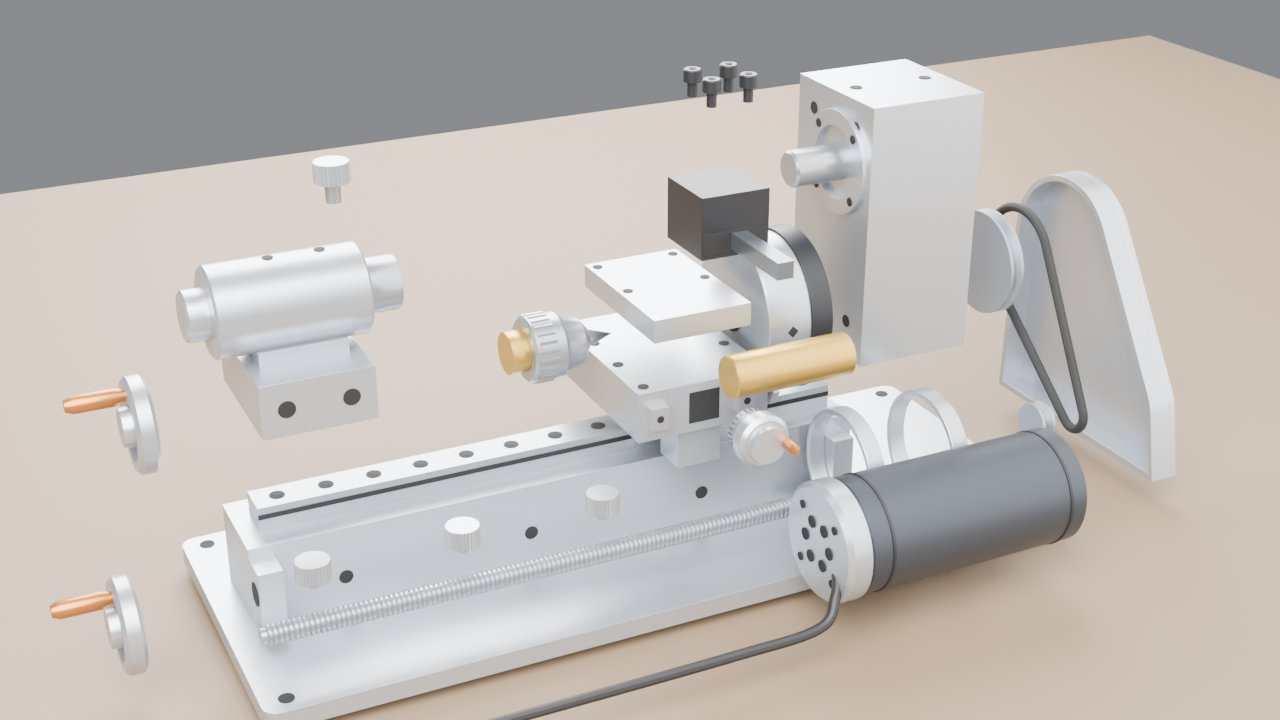
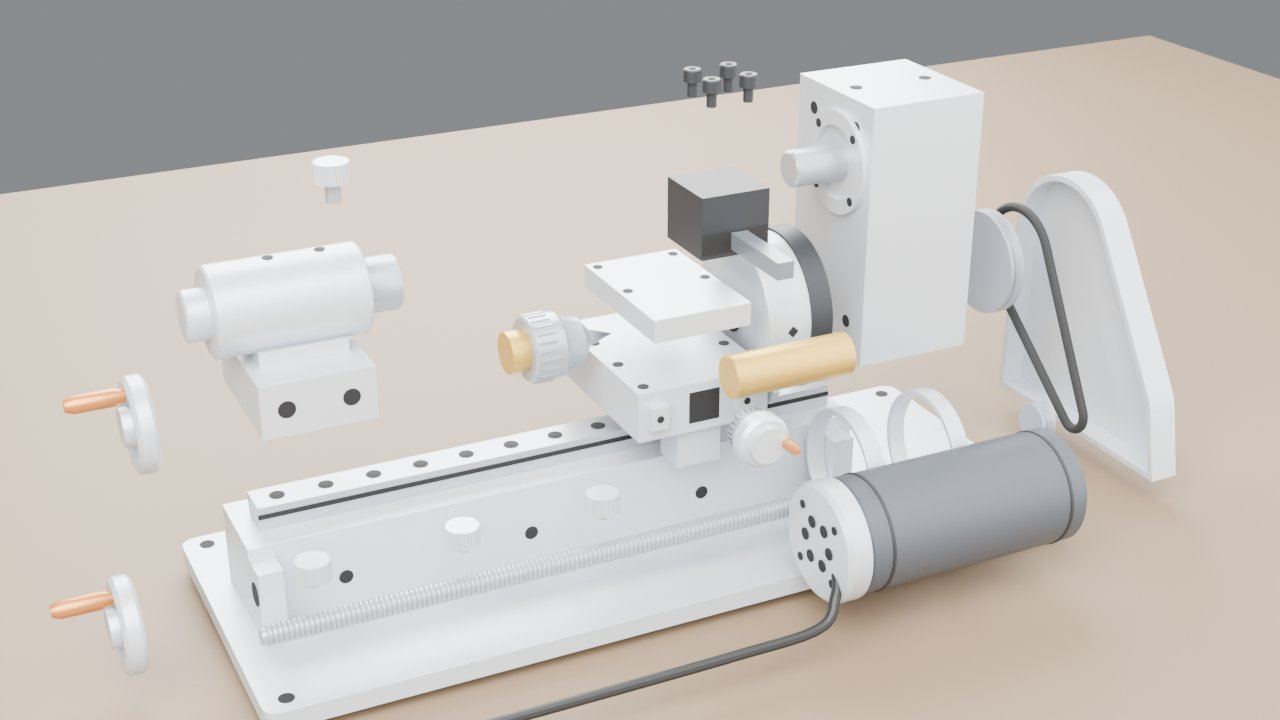
迷你车床爆炸图: 降低金属度（虚幻工作室没有反射探针，铝件发黑）

diff --git a/迷你车床爆炸图/build_lathe.py b/迷你车床爆炸图/build_lathe.py
@@ -386,20 +386,21 @@ def set_engine(kind):
 
 
 def make_materials():
-    # 金属度封顶 0.8、粗糙度至少 0.3：虚幻工作室里没有反射探针，金属度 1 的镜面铝会反射成黑块
+    # 金属度都压在 0.55 以下：虚幻工作室里没有反射探针，金属反射的是黑的环境，金属度 0.8 的铝在虚幻里已经发黑了（实测）。
+    # 所以铝用"亮灰 + 低金属度"来近似，Blender 里看起来稍微偏塑料一点
     return dict(
-        alu=principled('M_Alu', '#b8bdc4', .8, .34),
-        alu_dark=principled('M_Alu_Anodized', '#8e949c', .7, .4),
-        steel=principled('M_Steel', '#a3a8ae', .8, .3),
-        brass=principled('M_Brass', '#c9a24a', .8, .32),
-        copper=principled('M_Copper_Handle', '#b8743a', .8, .34),
-        black=principled('M_Black_Oxide', '#1e1f22', .3, .45),
+        alu=principled('M_Alu', '#c3c8ce', .35, .38),
+        alu_dark=principled('M_Alu_Anodized', '#8e949c', .35, .42),
+        steel=principled('M_Steel', '#a9aeb4', .5, .32),
+        brass=principled('M_Brass', '#d0a84e', .55, .35),
+        copper=principled('M_Copper_Handle', '#c07a3e', .55, .36),
+        black=principled('M_Black_Oxide', '#25272b', .2, .5),
         hole=principled('M_Hole', '#0b0b0c', 0, .8),
         rubber=principled('M_Rubber', '#141416', 0, .85),
-        motor=principled('M_Motor_Can', '#3b3f45', .6, .42),
+        motor=principled('M_Motor_Can', '#4a4f56', .3, .45),
         belt=principled('M_Belt', '#1b1b1b', 0, .8),
         cable=principled('M_Cable', '#121212', 0, .55),
-        tool=principled('M_HSS_Tool', '#6f757c', .8, .3),
+        tool=principled('M_HSS_Tool', '#7a8088', .5, .32),
     )
 
 

diff --git a/迷你车床爆炸图/README.md b/迷你车床爆炸图/README.md
@@ -70,5 +70,5 @@
 
 - 坐标：+X 指向主轴箱（右），-X 指向尾座（左），-Y 是操作者站的正面，+Z 向上；Z = 0 是脚垫底面，主轴轴线在 (Y 0, Z 100)。所有零件直接按装配位置建模，物体原点都在世界原点。
 - 爆炸公式和电机、无人机一样：每个零件有几段位移，每段有一个出场时刻 s，在总进度 T 的 `[0.6s, 0.6s + 0.4]` 区间里缓动走完；装回时 T 倒着走，顺序自然反过来。
-- 材质金属度封顶 0.8、粗糙度至少 0.3：虚幻工作室里没有反射探针，金属度 1 的镜面铝会反射成黑块。
+- 材质金属度都压在 0.55 以下：虚幻工作室里没有反射探针，金属反射的是黑的环境，金属度 0.8 的铝在虚幻里就已经发黑了（实测）。所以铝用"亮灰 + 低金属度"近似，Blender 里看起来稍微偏塑料一点。
 - 简化了的地方：主轴箱、拖板内部没建（轴承、燕尾导轨、螺母、平面螺纹盘都只体现在外观上）；丝杠的螺纹是一圈圈的环，不是真正的螺旋；皮带是一根圆带。
